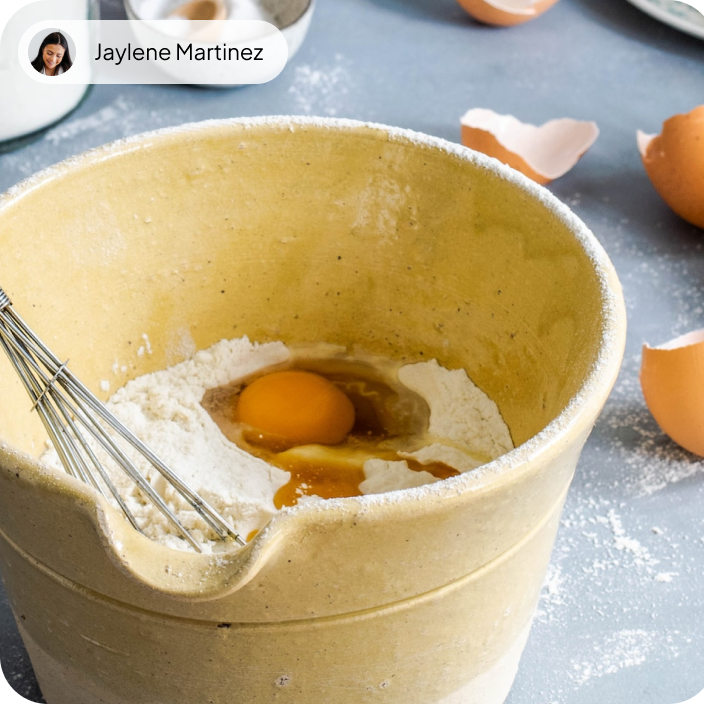
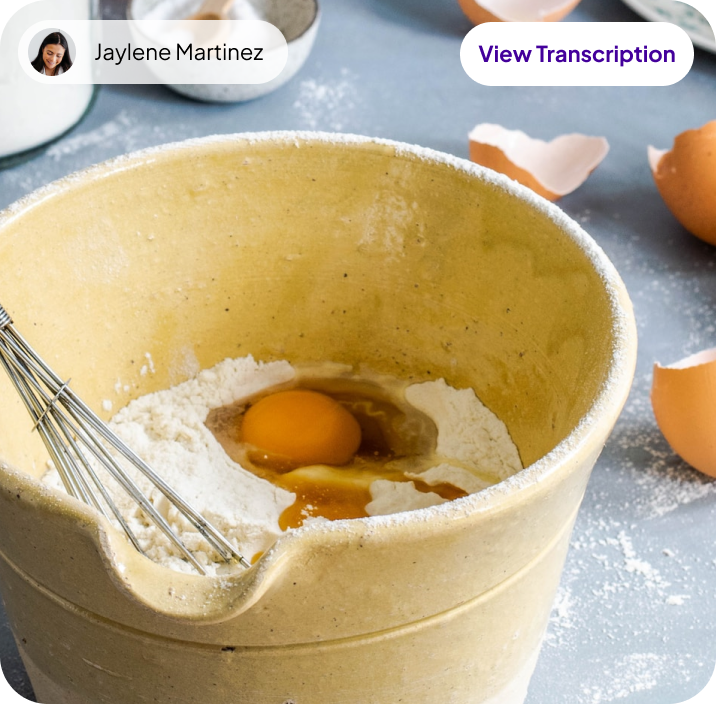
Transcript added to RamenListenScreen

diff --git a/StoreaTime-App/screens/RamenListenScreen.js b/StoreaTime-App/screens/RamenListenScreen.js
@@ -1,13 +1,18 @@
-import { ImageBackground, StyleSheet, ScrollView, KeyboardAvoidingView } from 'react-native';
+import { ImageBackground, StyleSheet, ScrollView, KeyboardAvoidingView, Pressable } from 'react-native';
 import { useFonts } from 'expo-font';
+import {useState} from 'react'
 import ListenPlayer from '../components/listenPlayer';
 import CommentSection from '../components/CommentSection';
 import ImageSwiper from '../components/ImageSwiper';
 import ListenHeader from '../components/ListenHeader';
 import loadBackgroundImageAsync from '../components/LoadBackgroundImageAsync';
+import ViewTranscriptionButton from '../components/ViewTranscriptionButton';
+import ImageSwiperTranscription from '../components/ImageSwiperTranscription';
 
 export default function RamenListenScreen({ navigation }) {
     loadBackgroundImageAsync();
+
+    const [transcript, setTranscript] = useState(false)
 
     const [loaded] = useFonts({
         Romana: require('../assets/fonts/RomanaRoman-Normal.otf'),
@@ -25,11 +30,21 @@ export default function RamenListenScreen({ navigation }) {
             <KeyboardAvoidingView style={{ flex: 1 }} behavior="position" enabled>
                 <ListenHeader navigation={navigation}></ListenHeader>
                 <ScrollView centerContent={true}>
+                    <Pressable style={{zIndex: 999}} onPress={() => setTranscript(!transcript)}>
+                        <ViewTranscriptionButton></ViewTranscriptionButton>
+                    </Pressable>
+                    {transcript ? 
+                    <ImageSwiperTranscription
+                        image1={require('../assets/food/ramen_transcript1.png')}
+                        image2={require('../assets/food/ramen_transcript2.png')}
+                        image3={require('../assets/food/ramen_transcript3.png')}
+                    ></ImageSwiperTranscription> :
                     <ImageSwiper image1={require('../assets/food/ramen_image1.png')}
                         image2={require('../assets/food/ramen_image2.png')}
                         image3={require('../assets/food/ramen_image3.png')}
                         image4={require('../assets/food/ramen_image4.png')}
                     ></ImageSwiper>
+                    }
                     <ListenPlayer textLine1={"How did you learn to make "} textLine2={"Kanagawa Ramen?"} endDuration={"1:40"} audio={require('../assets/sounds/ramen_story.mp3')}></ListenPlayer>
                     <CommentSection></CommentSection>
                 </ScrollView>

diff --git a/StoreaTime-App/screens/AsianFoodCollective.js b/StoreaTime-App/screens/AsianFoodCollective.js
@@ -1,0 +1,38 @@
+import { Text, View, StyleSheet, ImageBackground, Pressable, Image } from 'react-native';
+import AccessCommunityHeader from '../components/AccessCommunityHeader';
+import AccessRecentStories from '../components/AccessRecentStories';
+import AccessCommunityButtons from '../components/AccessCommunityButtons';
+import loadBackgroundImageAsync from '../components/LoadBackgroundImageAsync';
+import RiveraFamilyMessages from './message_screens/RiveraFamilyMessageScreen';
+
+const STORIES = [
+    {
+        id: "PadThai",
+        card: require('../assets/explore_photocards/community_finds_card2.png'),
+    },
+    {
+        id: "Ramen",
+        card: require('../assets/explore_photocards/community_finds_card1.png'),
+    },
+    {
+        id: "Dimsum",
+        card: require('../assets/explore_photocards/community_finds_card3.png'),
+    }
+]
+
+export default function RiveraFamilyScreen({ navigation }) {
+    loadBackgroundImageAsync();
+    return (
+        <ImageBackground source={require('../assets/background.png')} resizeMode="cover" style={styles.image}>
+            <AccessCommunityHeader image={require('../assets/community/rivera_family_pfp.png')} communityName={"Asian Food Collective"} navigation={navigation}></AccessCommunityHeader>
+            <AccessRecentStories STORIES={STORIES} navigation={navigation}></AccessRecentStories>
+            <AccessCommunityButtons navigation={navigation} messageScreen={"RiveraFamilyMessages"}></AccessCommunityButtons>
+        </ImageBackground>
+    )
+}
+
+const styles = StyleSheet.create({
+    image: {
+        flex: 1
+    },
+})

diff --git a/StoreaTime-App/components/UserPill.js b/StoreaTime-App/components/UserPill.js
@@ -1,0 +1,51 @@
+import { Text, View, StyleSheet, ImageBackground, Pressable, Image, FlatList } from 'react-native';
+import { useFonts } from 'expo-font';
+import Themes from '../assets/Themes/themes';
+
+export default function UserPill() {
+    const [loaded] = useFonts({
+        Romana: require('../assets/fonts/RomanaRoman-Normal.otf'),
+        'Romana-Bold': require('../assets/fonts/RomanaRoman-Bold.otf'),
+        JakartaSans: require('../assets/fonts/PlusJakartaSans-VariableFont_wght.ttf'),
+        JakartaSansBold: require('../assets/fonts/PlusJakartaText-Bold.otf'),
+    });
+
+    if (!loaded) {
+        return null;
+    }
+
+    return (
+        <View style={styles.container}>
+            <Image style={styles.imageStyle} source={require('../assets/profile/MelissaRivera.png')}></Image>
+            <Text style={styles.textStyle}>Jaylene Martinez</Text>
+        </View>
+    )
+
+}
+
+const styles = StyleSheet.create({
+    container: {
+        width: 135,
+        height: 32,
+        borderRadius: 24,
+        backgroundColor: 'rgba(255, 255, 255, 0.8)',
+        //justifyContent: 'center',
+        alignItems: 'center',
+        position: 'absolute',
+        flexDirection: 'row',
+        zIndex: 999,
+        left: 9,
+        top: 42
+    },
+    imageStyle: {
+        width: 24,
+        height: 24,
+        marginLeft: 5
+    },
+    textStyle: {
+        fontSize: 11,
+        color: 'black',
+        fontFamily: 'JakartaSans',
+        marginLeft: 9
+    }
+})

diff --git a/StoreaTime-App/components/ImageSwiperTranscription.js b/StoreaTime-App/components/ImageSwiperTranscription.js
@@ -1,7 +1,7 @@
 import { StyleSheet, View, Image } from 'react-native';
 import Swiper from 'react-native-swiper';
 
-export default function ImageSwiper({image1, image2, image3, image4}) {
+export default function ImageSwiperTranscription({image1, image2, image3}) {
     return (
         <View style={styles.swiperBox}>
             <Swiper
@@ -28,9 +28,6 @@ export default function ImageSwiper({image1, image2, image3, image4}) {
                 <View>
                     <Image source={image3} style={styles.imageStyle}></Image>
                 </View>
-                {image4 == "" ? console.log("no image4") : <View>
-                    <Image source={image4} style={styles.imageStyle}></Image>
-                </View>}
                 
             </Swiper>
         </View>
@@ -38,12 +35,13 @@ export default function ImageSwiper({image1, image2, image3, image4}) {
 }
 
 const styles = StyleSheet.create({
-    wrapper: {},
+    wrapper: {zIndex: 0},
     swiperBox: {
         width: 358,
         height: 353,
         //marginTop: 32,
-        marginBottom: 24
+        marginBottom: 24,
+        zIndex: 0
     },
     dotStyle: {
         backgroundColor: 'rgba(0,0,0,.2)',
@@ -67,10 +65,10 @@ const styles = StyleSheet.create({
         //marginBottom: 16
     },
     imageStyle: {
-        //marginTop: 32,
+        
         width: 358,
         height: 353,
         borderRadius: 24,
-        //marginBottom: 24,
+       
     },
 })

diff --git a/StoreaTime-App/components/ViewTranscriptionButton.js b/StoreaTime-App/components/ViewTranscriptionButton.js
@@ -1,0 +1,42 @@
+import { Text, View, StyleSheet, ImageBackground, Pressable, Image, FlatList } from 'react-native';
+import { useFonts } from 'expo-font';
+import Themes from '../assets/Themes/themes';
+
+export default function ViewTranscriptionButton() {
+    const [loaded] = useFonts({
+        Romana: require('../assets/fonts/RomanaRoman-Normal.otf'),
+        'Romana-Bold': require('../assets/fonts/RomanaRoman-Bold.otf'),
+        JakartaSans: require('../assets/fonts/PlusJakartaSans-VariableFont_wght.ttf'),
+        JakartaSansBold: require('../assets/fonts/PlusJakartaText-Bold.otf'),
+    });
+
+    if (!loaded) {
+        return null;
+    }
+
+    return (
+        <View style={styles.container}>
+            {/* <Text style={styles.textStyle}>View Transcription</Text> */}
+        </View>
+    )
+}
+
+const styles = StyleSheet.create({
+    container: {
+        width: 117,
+        height: 32,
+        borderRadius: 24,
+        //backgroundColor: Themes.colors.white,
+        justifyContent: 'center',
+        alignItems: 'center',
+        //position: 'absolute',
+        zIndex: 999,
+        top: 43,
+        left: 231
+    },
+    textStyle: {
+        fontFamily: "JakartaSansBold",
+        fontSize: 11,
+        color: Themes.colors.purple
+    }
+})

diff --git a/StoreaTime-App/components/AccessCommunityButtons.js b/StoreaTime-App/components/AccessCommunityButtons.js
@@ -5,7 +5,6 @@ import Message from '../assets/icons/message.svg'
 import Leave from '../assets/icons/leave.svg'
 
 export default function AccessCommunityButtons({navigation, messageScreen}) {
-    console.log(messageScreen)
     const [loaded] = useFonts({
         Romana: require('../assets/fonts/RomanaRoman-Normal.otf'),
         'Romana-Bold': require('../assets/fonts/RomanaRoman-Bold.otf'),
